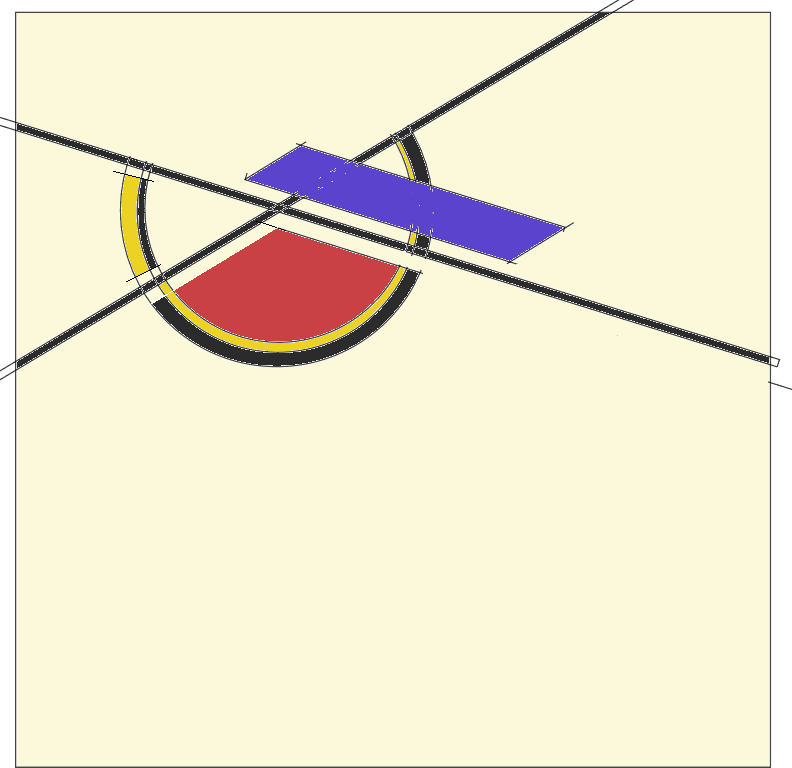
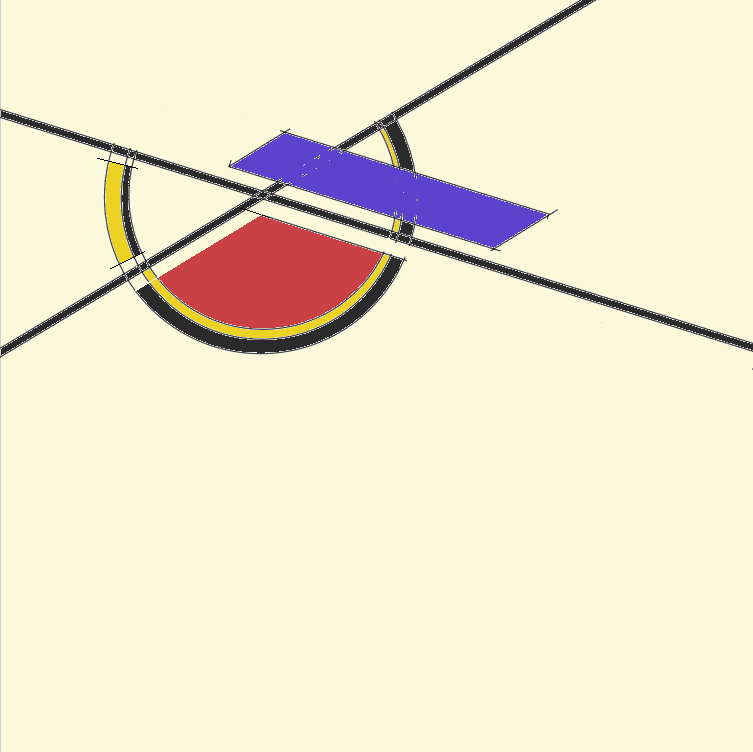
CSPage header text positioning

Changed region(s): [[0.0, 0.0, 1.0, 1.0]]

diff --git a/styleCSPage.css b/styleCSPage.css
@@ -1,7 +1,7 @@
 
 @media screen and (orientation: portrait) {
     body {
-        background-image: url("./images/bg_cspage_header_draft_4.png");
+        background-image: url("./images/bg_cspage_header_draft_5.png");
         
         background-size: auto 85vw;
         background-repeat:no-repeat;
@@ -15,7 +15,7 @@
 }
 @media screen and (orientation: landscape) {
 body{
-    background-image: url("./images/bg_cspage_header_draft_4.png");
+    background-image: url("./images/bg_cspage_header_draft_5.png");
     
     background-size: auto 85vh;
     background-repeat:no-repeat;
@@ -26,7 +26,70 @@ body{
     font-family: Verdana, sans-serif;
     /*background-color: rgb(227, 164, 19);*/
     place-items: right;
+    
 }
+
+#Computer{
+    -webkit-transform: rotate(-31deg);
+    -moz-transform: rotate(-31deg);
+    -o-transform: rotate(-31deg);
+    transform: rotate(-31deg);
+
+    text-decoration:none;
+    margin-left: calc(17vh);
+    margin-top:6vh;
+    color: #2b2b2b;
+    position:absolute;
+    font-size: 6vh;
+    
+    text-align: right;
+
+}
+
+#Science{
+   
+    -webkit-transform: rotate(-31deg);
+    -moz-transform: rotate(-31deg);
+    -o-transform: rotate(-31deg);
+    transform: rotate(-31deg);
+    text-decoration:none;
+    margin-left: calc(34vh);
+    margin-top:4vh;
+    color: #2b2b2b;
+    position:absolute;
+    font-size: 6vh;
+    
+    text-align: right;
+}
+
+#Projects{
+    -webkit-transform: rotate(-31deg);
+    -moz-transform: rotate(-31deg);
+    -o-transform: rotate(-31deg);
+    transform: rotate(5.25deg);
+    text-decoration:none;
+    margin-left: calc(35vh);
+    margin-top:16vh;
+    color:#fcf8da;
+    position:absolute;
+    font-size: 5.5vh;
+    
+    text-align: right;
+}
+
+#Degree{
+    position:absolute;  -webkit-transform: rotate(-31deg);
+    -moz-transform: rotate(-31deg);
+    -o-transform: rotate(-31deg);
+    transform: rotate(5.25deg);
+    text-decoration:none;
+    margin-left: calc(65vh);
+    margin-top:25vh;
+    color:#2b2b2b;
+    position:absolute;
+    font-size: 2.25vh;
+    
+    text-align: right;
 }
 
 

diff --git a/CSPage.html b/CSPage.html
@@ -5,6 +5,14 @@
     <link rel="stylesheet" href="styleCSPage.css">
 </head>
 <body>
-    <p>hello :3 <br> CS Page :3</p>
+    
+    <h1 id="Computer">computer</h1>
+    <h1 id="Science">science</h1>
+    <h1 id="Projects">projects</h1>
+
+    <strong id="Degree">BS Math-Computer Science, UCSD (2026)</strong>
+
+
+
 </body>
 </html>
